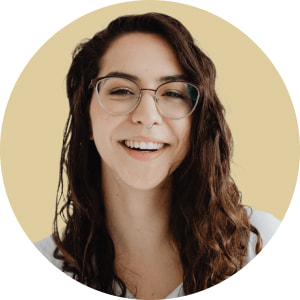
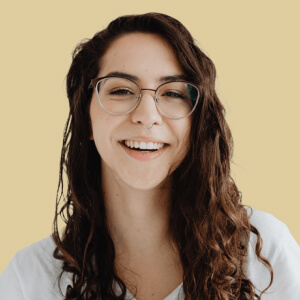
Optimized images

diff --git a/src/partials/feedback.html b/src/partials/feedback.html
@@ -14,14 +14,11 @@
           <div class="feedback-wrapper">
             <picture>
               <source
-                srcset="
-                  ./img/anna-student.png    1x,
-                  ./img/anna-student@2x.png 2x
-                "
+                srcset="./img/anna-student.jpg 1x,./img/anna-student@2x.jpg 2x"
               />
               <img
                 class="feedback-image"
-                src="./img/anna-student.png"
+                src="./img/anna-student.jpg"
                 alt="photo of the student Anna"
                 width="50"
                 height="50"
@@ -42,14 +39,11 @@
           <div class="feedback-wrapper">
             <picture>
               <source
-                srcset="
-                  ./img/mykhailo-student.png 1x,
-                  ./img/mykhailo-student@2x.png 2x
-                "
+                srcset="./img/mykhailo-student.jpg 1x, ./img/mykhailo-student@2x.jpg 2x"
               />
               <img
                 class="feedback-image"
-                src="./img/mykhailo-student.png"
+                src="./img/mykhailo-student.jpg"
                 alt="photo of the student Mykhailo"
                 width="50"
                 height="50"
@@ -69,14 +63,11 @@
           <div class="feedback-wrapper">
             <picture>
               <source
-                srcset="
-                  ./img/victoria-student.png 1x,
-                  ./img/victoria-student@2x.png 2x
-                "
+                srcset="./img/victoria-student.jpg 1x, ./img/victoria-student@2x.jpg 2x"
               />
               <img
                 class="feedback-image"
-                src="./img/victoria-student.png"
+                src="./img/victoria-student.jpg"
                 alt="photo of the student Victoria"
                 width="50"
                 height="50"

diff --git a/src/index.html b/src/index.html
@@ -8,30 +8,33 @@
     <link rel="preconnect" href="https://fonts.googleapis.com" />
     <link rel="preconnect" href="https://fonts.gstatic.com" crossorigin />
     <link
+      type="text/css"
       href="https://fonts.googleapis.com/css2?family=Manrope:wght@400;600;700&display=swap"
       rel="stylesheet"
     />
     <link
+      type="text/css"
       rel="stylesheet"
       href="https://cdnjs.cloudflare.com/ajax/libs/modern-normalize/2.0.0/modern-normalize.min.css"
       integrity="sha512-4xo8blKMVCiXpTaLzQSLSw3KFOVPWhm/TRtuPVc4WG6kUgjH6J03IBuG7JZPkcWMxJ5huwaBpOpnwYElP/m6wg=="
       crossorigin="anonymous"
       referrerpolicy="no-referrer"
     />
-    <link rel="stylesheet" href="./css/index.css" />
+    <link rel="stylesheet" type="text/css" href="./css/index.css" />
   </head>
   <body class="body">
-    <load ="partials/header.html" />
+    <load src="partials/header.html" />
     <main>
-      <load ="partials/hero.html" />
-      <load ="partials/about.html" />
-      <load ="partials/lessons.html" />
-      <load ="partials/package.html" />
-      <load ="partials/teachers.html" />
-      <load ="partials/form.html" />
-      <load ="partials/feedback.html" />
+      <load src="partials/hero.html" />
+      <load src="partials/about.html" />
+      <load src="partials/lessons.html" />
+      <load src="partials/package.html" />
+      <load src="partials/teachers.html" />
+      <load src="partials/form.html" />
+      <load src="partials/feedback.html" />
     </main>
-    <load ="partials/footer.html" />
-    <load ="partials/menu.html" />
+    <load src="partials/footer.html" />
+    <load src="partials/menu.html" />
     <script type="module" src="./main.js"></script>
+  </body>
 </html>

diff --git a/src/css/layout/teachers.css b/src/css/layout/teachers.css
@@ -2,7 +2,6 @@
   display: flex;
   flex-direction: row;
   flex-wrap: wrap;
-  align-items: center;
   justify-content: center;
   gap: 40px;
 }
@@ -32,6 +31,7 @@
 .teachers-img {
   display: block;
   margin: 0 auto 16px;
+  border-radius: 50%;
 }
 
 .teacher-name {

diff --git a/src/css/layout/feedback.css b/src/css/layout/feedback.css
@@ -101,6 +101,11 @@
   }
 }
 
+.feedback-image {
+  display: block;
+  border-radius: 100%;
+}
+
 .feedback-headline {
   font-weight: 700;
   font-size: 20px;
